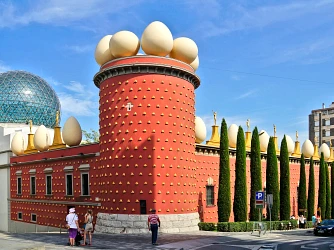
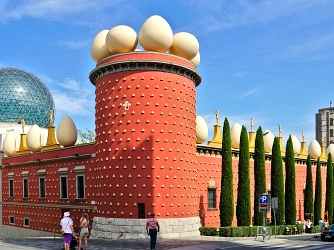
feat: implement safe zoom to hide edge watermarks in asset engine

diff --git a/scripts/generate-assets.js b/scripts/generate-assets.js
@@ -101,18 +101,30 @@ async function processSingleFile(filename) {
 
       console.log(`   🔸 Generando ${profileName} (${config.width}x${config.height})...`);
 
+      // Aplicamos un "Safe Zoom" del 5% para ocultar marcas de agua en los bordes
+      const zoomFactor = 1.05; 
+      const zoomWidth = Math.round(config.width * zoomFactor);
+      const zoomHeight = Math.round(config.height * zoomFactor);
+
       await sharp(imageBuffer)
         .resize({
+            width: zoomWidth,
+            height: zoomHeight,
+            fit: 'cover',
+            position: 'center'
+        })
+        // Recortamos al tamaño original para aplicar el zoom y ocultar las esquinas
+        .extract({
+            left: Math.round((zoomWidth - config.width) / 2),
+            top: Math.round((zoomHeight - config.height) / 2),
             width: config.width,
-            height: config.height,
-            fit: config.fit,
-            position: config.position
+            height: config.height
         })
         .modulate({
             brightness: dynamicBrightness,
             saturation: dynamicSaturation
         })
-        .sharpen() // Añade nitidez
+        .sharpen()
         .webp({ quality: config.quality })
         .toFile(outputPath);
     }
